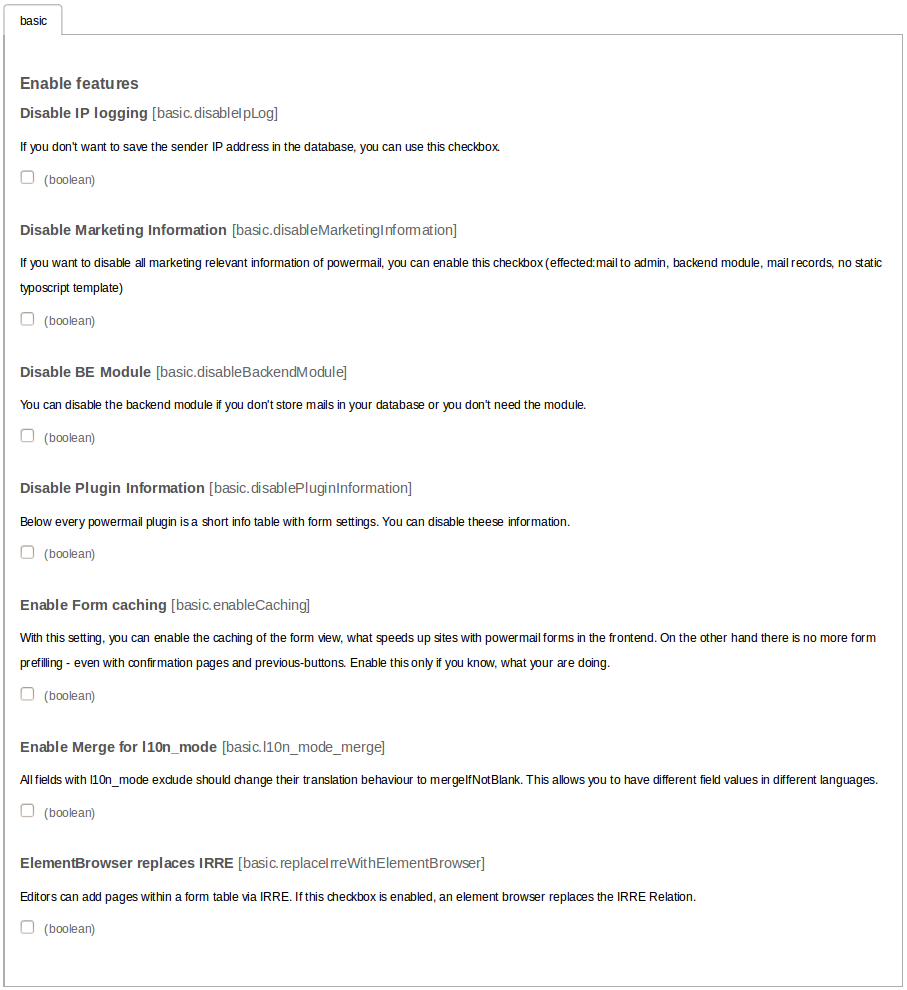
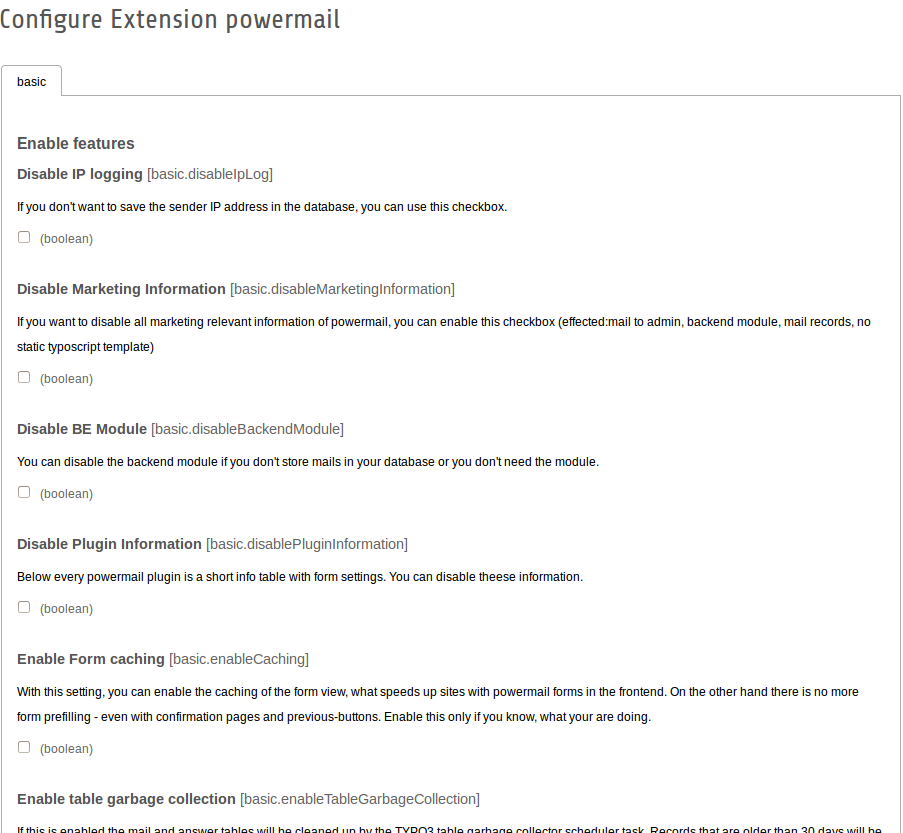
[TASK] Preflight for Release 2.1.13
Documentation updated for 2.1.13, version update in ext_emconf.php

Changed region(s): [[0.0, 0.0, 1.0, 1.0]]

diff --git a/ext_emconf.php b/ext_emconf.php
@@ -17,7 +17,7 @@ $EM_CONF[$_EXTKEY] = array (
 		(field prefilling, spam prevention, marketing information, double-optin, etc...)',
 	'category' => 'plugin',
 	'shy' => 0,
-	'version' => '2.1.12',
+	'version' => '2.1.13',
 	'dependencies' => 'cms,extbase,fluid',
 	'conflicts' => '',
 	'priority' => '',

diff --git a/Documentation/ForAdministrators/GoodToKnow/GarbageCollector/Index.rst b/Documentation/ForAdministrators/GoodToKnow/GarbageCollector/Index.rst
@@ -6,8 +6,11 @@
 Remove old mails and answers
 ----------------------------
 
-You can use the scheduler backend module to remove old entries of mails and answers by a given number of days.
+If you activate this feature in Extension Manager Settings,
+you can use the scheduler backend module to remove old
+entries of mails and answers by a given number of days.
 
-Note: Deleted records are completely removed from the database! There is no way to reactivate them without a backup.
+Note: Deleted records are completely removed from the
+database! There is no way to reactivate them without a backup.
 
 |img-garbagecollector|

diff --git a/Documentation/ForAdministrators/Installation/Index.rst b/Documentation/ForAdministrators/Installation/Index.rst
@@ -72,6 +72,13 @@ Main configuration for powermail for CMS wide settings.
       0
 
  - :Field:
+      Enable table garbage collection
+   :Description:
+      If this is enabled the mail and answer tables will be cleaned up by the TYPO3 table garbage collector scheduler task. Records that are older than a number of given days will be removed.
+   :DefaultValue:
+      0
+
+ - :Field:
       Enable Merge for l10n_mode
    :Description:
       All fields with l10n\_mode exclude should change their translation behaviour to mergeIfNotBlank. This allows you to have different field values in different languages.

diff --git a/Documentation/Changelog/Index.rst b/Documentation/Changelog/Index.rst
@@ -18,6 +18,17 @@ All changes are documented on `http://forge.typo3.org/projects/extension-powerma
       Release Description
 
  - :Version:
+      2.1.13
+   :Date:
+      2015-01-19
+   :Changes:
+      Bugfix #64236, #64250, #64352
+
+      Feature #64279
+
+      See http://forge.typo3.org for Details
+
+ - :Version:
       2.1.12
    :Date:
       2015-01-11
